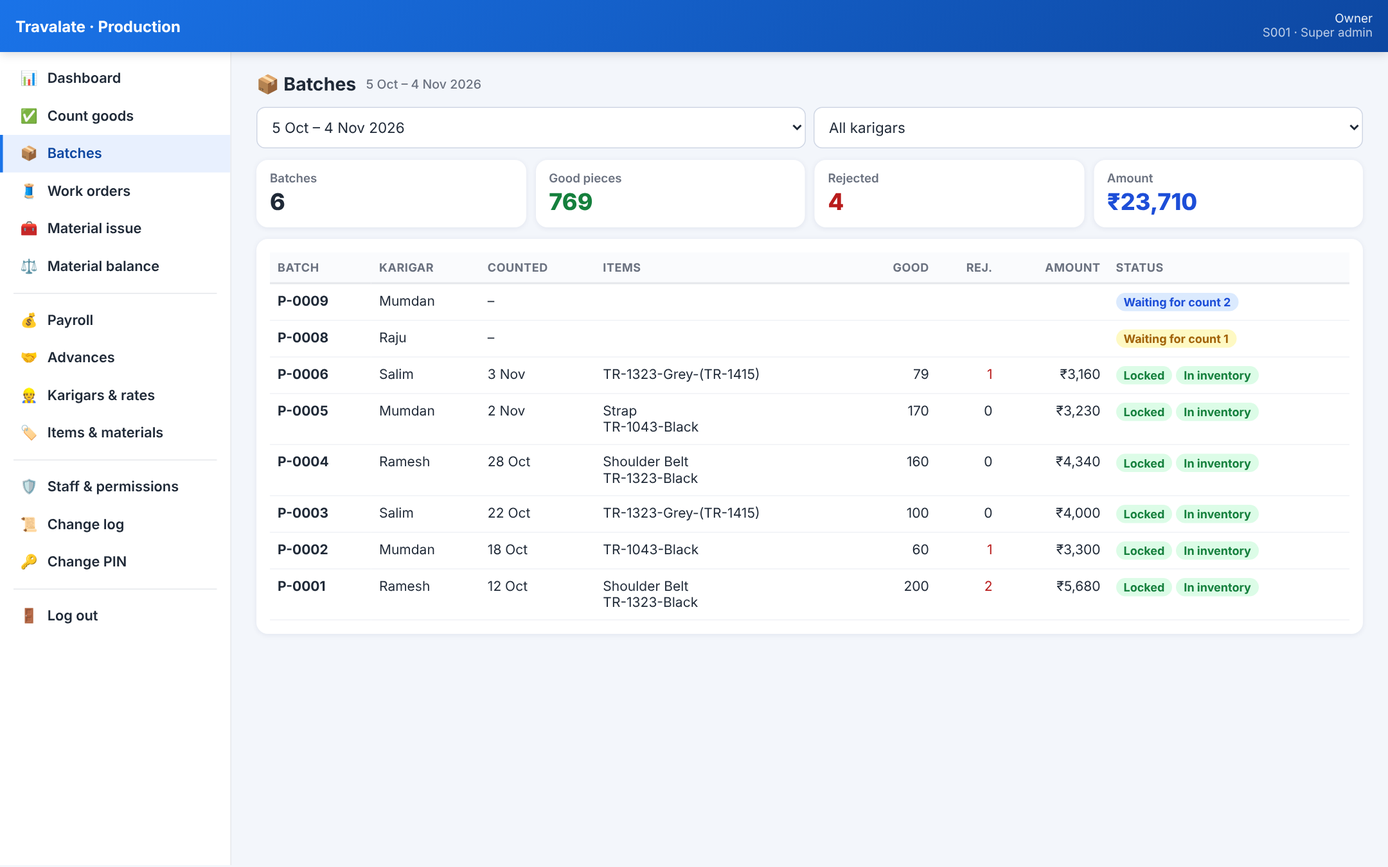
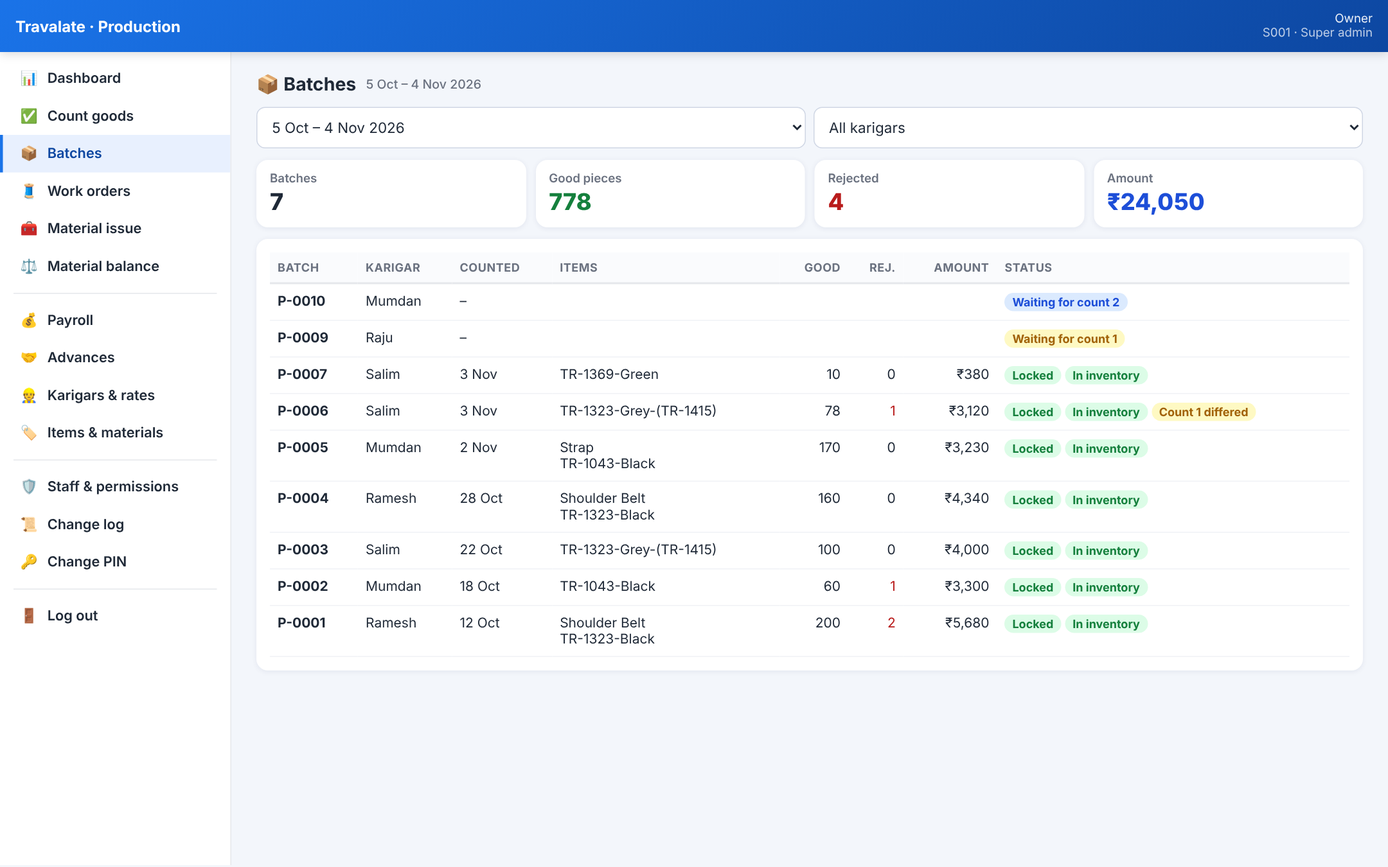
Production app: the second count is final; in-production number in the Inventory Snapshot page
- Count 2 (a different person, blind) locks the batch with its own numbers. No recount step any more;
  if count 1 was different it is flagged (batch list, batch detail, dashboard, change log), not blocked.
- README: the exact InventoryForm.html change (style + renderInventorySnapshot_) for the small grey
  in-production number in the latest date's cell, tested on the real page.
- Screenshots updated; the real Inventory Snapshot with the change replaces the mock-up.

Claude-Session: https://claude.ai/code/session_01Kh5UPgEYYGq7tCgf8f7WJ8

diff --git a/production-app/Index.html b/production-app/Index.html
@@ -160,7 +160,7 @@ function can(p) { return S.profile && S.profile.kind === 'S' && (S.profile.role 
 function isSuper() { return S.profile && S.profile.role === 'SUPER'; }
 function opts(list, sel, label, value) { return list.map(function (x) { var v = value ? value(x) : x.id; return '<option value="' + esc(v) + '"' + (v === sel ? ' selected' : '') + '>' + esc(label ? label(x) : x.name) + '</option>'; }).join(''); }
 function itemOpts(items, sel) { return '<option value="">Choose item…</option>' + items.map(function (i) { return '<option value="' + esc(i.code) + '"' + (i.code === sel ? ' selected' : '') + '>' + esc(i.code) + (i.type === 'PART' ? ' (part)' : '') + '</option>'; }).join(''); }
-var STATUS = { COUNT1: ['Waiting for count 1', 'warn'], COUNT2: ['Waiting for count 2', 'info'], MISMATCH: ['Counts differ', 'err'], LOCKED: ['Locked', 'ok'] };
+var STATUS = { COUNT1: ['Waiting for count 1', 'warn'], COUNT2: ['Waiting for count 2', 'info'], LOCKED: ['Locked', 'ok'] };
 function statusPill(s) { var x = STATUS[s] || [s, '']; return '<span class="pill ' + x[1] + '">' + esc(x[0]) + '</span>'; }
 function invPill(s) { return s === 'DONE' ? '<span class="pill ok">In inventory</span>' : s === 'PENDING' ? '<span class="pill err">Not in inventory yet</span>' : s === 'NONE' ? '<span class="pill">Parts only</span>' : ''; }
 
@@ -354,7 +354,7 @@ VIEWS.dash = function () {
       '<div class="tiles">' +
       '<div class="tile warn" onclick="go(\'count\')"><div class="l">Waiting for count 1</div><div class="n">' + r.waitCount1 + '</div></div>' +
       '<div class="tile info" onclick="go(\'count\')"><div class="l">Waiting for count 2</div><div class="n">' + r.waitCount2 + '</div></div>' +
-      '<div class="tile ' + (r.mismatch ? 'err' : '') + '" onclick="go(\'count\')"><div class="l">Counts differ</div><div class="n">' + r.mismatch + '</div></div>' +
+      '<div class="tile ' + (r.differed ? 'err' : '') + '" onclick="go(\'batches\')"><div class="l">Count 1 ≠ final (this period)</div><div class="n">' + r.differed + '</div></div>' +
       '<div class="tile ' + (r.movesPending ? 'warn' : '') + '" onclick="go(\'material\')"><div class="l">Material to confirm</div><div class="n">' + r.movesPending + '</div></div>' +
       '<div class="tile ok"><div class="l">Received today (good)</div><div class="n">' + r.receivedToday + '</div></div>' +
       '<div class="tile ' + (r.rejectedToday ? 'err' : '') + '"><div class="l">Rejected today</div><div class="n">' + r.rejectedToday + '</div></div>' +
@@ -375,7 +375,7 @@ VIEWS.dash = function () {
 VIEWS.count = function () {
   api('countQueue', S.token).then(function (r) {
     S.data.cq = r;
-    var groups = [['COUNT1', 'Waiting for count 1 (with photo)'], ['COUNT2', 'Waiting for count 2 (a different person, blind)'], ['MISMATCH', 'Counts differ: count again']];
+    var groups = [['COUNT1', 'Waiting for count 1 (with photo)'], ['COUNT2', 'Waiting for count 2: final count (a different person, blind)']];
     render('<h1 class="page">✅ Count received goods</h1>' +
       (r.canCount ? '<div class="card"><h2>New batch (no hand-over from the karigar)</h2><div class="row"><select id="nbK"><option value="">Choose karigar…</option>' + opts(r.karigars, '', function (k) { return k.name + ' (' + k.id + ')'; }) + '</select><button class="btn fix" onclick="newBatch(this)">Start count 1</button></div></div>' : '') +
       groups.map(function (g) {
@@ -384,12 +384,9 @@ VIEWS.count = function () {
           var act = '';
           if (r.canCount && b.status === 'COUNT1') act = '<button class="btn sm" onclick="countForm(\'' + b.id + '\',1)">Count 1</button>';
           if (r.canCount && b.status === 'COUNT2') act = b.mine ? '<span class="muted">You did count 1</span>' : '<button class="btn sm" onclick="countForm(\'' + b.id + '\',2)">Count 2</button>';
-          if (r.canCount && b.status === 'MISMATCH') act = '<button class="btn warn sm" onclick="recount(\'' + b.id + '\',this)">Count again</button>';
           return '<div class="it"><div class="grow"><b>' + esc(b.id) + ' · ' + esc(b.karigar) + '</b><div class="muted">' + d(b.createdAt) +
             (b.claim.length ? ' · Karigar says: ' + b.claim.map(function (c) { return esc(c.item) + ' ' + c.qty; }).join(', ') : '') +
             (b.count1By ? ' · Count 1 by ' + esc(b.count1By) : '') + '</div>' +
-            (b.mismatchItems.length ? '<div class="neg" style="font-size:13px;font-weight:600">Different on: ' + b.mismatchItems.map(esc).join(', ') + '</div>' : '') +
-            (b.mismatchDetail ? '<div class="muted">Count 1: ' + b.mismatchDetail.count1.map(function (l) { return esc(l.item) + ' ' + l.good + '/' + l.rejected; }).join(', ') + ' · Count 2: ' + b.mismatchDetail.count2.map(function (l) { return esc(l.item) + ' ' + l.good + '/' + l.rejected; }).join(', ') + '</div>' : '') +
             '</div>' + act + '</div>';
         }).join('') + '</div>' : '<div class="muted">Nothing waiting.</div>') + '</div>';
       }).join(''));
@@ -405,7 +402,7 @@ function countForm(id, which) {
   S.data.countItems = S.data.cq.items; S.data.photo = null;
   var pre = which === 1 ? b.claim.map(function (c) { return c.item; }) : b.items;
   modal('Count ' + which + ' · ' + id + ' · ' + (b.karigar || ''),
-    (which === 2 ? '<div class="blind">Blind count: you do not see count 1. Count every piece yourself.</div>' : b.claim.length ? '<div class="msg info">Karigar says: ' + b.claim.map(function (c) { return esc(c.item) + ' ' + c.qty; }).join(', ') + '</div>' : '') +
+    (which === 2 ? '<div class="blind">Final count: you do not see count 1. Count every piece yourself. Your count is the one that is paid and added to the inventory.</div>' : b.claim.length ? '<div class="msg info">Karigar says: ' + b.claim.map(function (c) { return esc(c.item) + ' ' + c.qty; }).join(', ') + '</div>' : '') +
     '<div class="lines"><div class="ln hdr"><div>Item</div><div>Good</div><div>Rejected</div><div></div></div><div id="cLines"></div></div><button class="btn sec sm" onclick="addCountLine()">+ Add item</button>' +
     (which === 1 ? '<label class="f">Photo of the received goods (required)</label><input type="file" accept="image/*" capture="environment" onchange="takePhoto(this)"><img id="cPhoto" class="photo" style="display:none">' : '') +
     '<button class="btn block ok" onclick="saveCountNow(\'' + id + '\',' + which + ',this)">Save count ' + which + '</button>');
@@ -433,15 +430,10 @@ function saveCountNow(id, which, btn) {
   busy(btn, true);
   api('saveCount', S.token, id, { lines: lines, photo: which === 1 ? S.data.photo : null }).then(function (r) {
     closeModal();
-    if (r.status === 'LOCKED') toast('Counts match: batch locked' + (r.inventory === 'DONE' ? ' and added to the inventory' : r.inventory === 'PENDING' ? '. Inventory will be retried.' : ''));
-    else if (r.status === 'MISMATCH') toast('Counts do not match: ' + r.items.join(', ') + '. Count again.');
+    if (r.status === 'LOCKED') toast('Final count saved: batch locked' + (r.inventory === 'DONE' ? ' and added to the inventory' : r.inventory === 'PENDING' ? '. Inventory will be retried.' : '') + (r.differs && r.differs.length ? '. Count 1 was different on ' + r.differs.join(', ') + ' (noted).' : ''));
     else toast('Count 1 saved. Now a different person does count 2.');
     go('count');
   }).catch(function (e) { fail(e, btn); });
-}
-function recount(id, btn) {
-  if (!confirm('Both counts are kept in the history and the batch is counted again from count 1.')) return;
-  busy(btn, true); api('recountBatch', S.token, id).then(function () { go('count'); }).catch(function (e) { fail(e, btn); });
 }
 
 /* ---------- batches ---------- */
@@ -455,7 +447,7 @@ VIEWS.batches = function (period) {
       '<div class="card scroll"><table class="tbl"><tr><th>Batch</th><th>Karigar</th><th>Counted</th><th>Items</th><th class="r">Good</th><th class="r">Rej.</th><th class="r">Amount</th><th>Status</th></tr>' +
       (r.list.map(function (b) {
         return '<tr class="click" onclick="showBatch(\'' + b.id + '\')"><td><b>' + esc(b.id) + '</b></td><td>' + esc(b.karigar) + '</td><td>' + (b.finalDate ? d(b.finalDate) : '–') + '</td><td>' + b.lines.map(function (l) { return esc(l.item); }).join('<br>') + '</td>' +
-          '<td class="r">' + (b.status === 'LOCKED' ? b.good : '') + '</td><td class="r ' + (b.rejected ? 'neg' : '') + '">' + (b.status === 'LOCKED' ? b.rejected : '') + '</td><td class="r">' + (b.status === 'LOCKED' ? money(b.amount) : '') + '</td><td>' + statusPill(b.status) + ' ' + invPill(b.inventory) + (b.missingRate ? ' <span class="pill warn">No rate</span>' : '') + '</td></tr>';
+          '<td class="r">' + (b.status === 'LOCKED' ? b.good : '') + '</td><td class="r ' + (b.rejected ? 'neg' : '') + '">' + (b.status === 'LOCKED' ? b.rejected : '') + '</td><td class="r">' + (b.status === 'LOCKED' ? money(b.amount) : '') + '</td><td>' + statusPill(b.status) + ' ' + invPill(b.inventory) + (b.differs && b.differs.length ? ' <span class="pill warn">Count 1 differed</span>' : '') + (b.missingRate ? ' <span class="pill warn">No rate</span>' : '') + '</td></tr>';
       }).join('') || '<tr><td colspan="8" class="muted">No batches.</td></tr>') + '</table></div>');
   }).catch(function (e) { render('<div class="msg err">' + esc(e.message) + '</div>'); });
 };
@@ -465,15 +457,16 @@ function showBatch(id) {
     var cnt = function (c) { return c && c.length ? c.map(function (l) { return esc(l.item) + ': <b>' + l.good + '</b>' + (l.rejected ? ' + ' + l.rejected + ' rej.' : ''); }).join('<br>') : '–'; };
     modal(b.id + ' · ' + b.karigar,
       '<div style="margin-bottom:8px">' + statusPill(b.status) + ' ' + invPill(b.inventory) + '</div>' +
+      (b.differs && b.differs.length ? '<div class="msg warn">Count 1 was different on: ' + b.differs.map(esc).join(', ') + '. The final count (count 2) is used.</div>' : '') +
       '<div class="kv"><div>Created</div><div>' + d(b.createdAt) + '</div>' + (b.claim.length ? '<div>Karigar said</div><div>' + b.claim.map(function (c) { return esc(c.item) + ' ' + c.qty; }).join(', ') + '</div>' : '') +
       '<div>Count 1</div><div>' + esc(b.count1By || '–') + ' ' + d(b.count1At) + (b.count1 ? '<br>' + cnt(b.count1) : '') + '</div>' +
-      '<div>Count 2</div><div>' + esc(b.count2By || '–') + ' ' + d(b.count2At) + (b.count2 ? '<br>' + cnt(b.count2) : '') + '</div>' +
+      '<div>Count 2 (final)</div><div>' + esc(b.count2By || '–') + ' ' + d(b.count2At) + (b.count2 ? '<br>' + cnt(b.count2) : '') + '</div>' +
       (b.finalDate ? '<div>Final date</div><div><b>' + d(b.finalDate) + '</b> · pay period ' + esc(b.period) + '</div>' : '') +
       (b.inventoryNote ? '<div>Inventory</div><div>' + esc(b.inventoryNote) + '</div>' : '') + (b.note ? '<div>Notes</div><div style="white-space:pre-wrap">' + esc(b.note) + '</div>' : '') + '</div>' +
       (b.lines.length ? '<table class="tbl" style="margin-top:12px"><tr><th>Item</th><th class="r">Good</th><th class="r">Rej.</th><th class="r">Rate</th><th class="r">Amount</th></tr>' + b.lines.map(function (l) {
         return '<tr><td>' + esc(l.item) + (l.type === 'PART' ? ' <span class="pill">part</span>' : '') + '</td><td class="r">' + l.good + '</td><td class="r">' + l.rejected + '</td><td class="r">' + (l.rate === null ? '<span class="pill warn">No rate</span>' : money(l.rate)) + '</td><td class="r">' + money(l.amount) + '</td></tr>';
       }).join('') + '<tfoot><tr><td>Total</td><td class="r">' + b.good + '</td><td class="r">' + b.rejected + '</td><td></td><td class="r">' + money(b.amount) + '</td></tr></tfoot></table>' : '') +
-      (b.earlier.length ? '<h3>Earlier counts (did not match)</h3>' + b.earlier.map(function (e) { return '<div class="muted">' + d(e.at) + ': count 1 ' + e.count1.map(function (l) { return esc(l.item) + ' ' + l.good + '/' + l.rejected; }).join(', ') + ' · count 2 ' + e.count2.map(function (l) { return esc(l.item) + ' ' + l.good + '/' + l.rejected; }).join(', ') + '</div>'; }).join('') : '') +
+      (b.earlier.length ? '<h3>Earlier counts</h3>' + b.earlier.map(function (e) { return '<div class="muted">' + d(e.at) + ': count 1 ' + e.count1.map(function (l) { return esc(l.item) + ' ' + l.good + '/' + l.rejected; }).join(', ') + ' · count 2 ' + e.count2.map(function (l) { return esc(l.item) + ' ' + l.good + '/' + l.rejected; }).join(', ') + '</div>'; }).join('') : '') +
       (b.hasPhoto ? '<div id="bPhoto" style="margin-top:10px"><button class="btn sec sm" onclick="loadPhoto(\'' + b.id + '\',this)">📷 Show photo</button></div>' : '') +
       '<div class="row" style="margin-top:12px">' + (b.inventory === 'PENDING' && S.profile.kind === 'S' ? '<button class="btn warn" onclick="retryInv(\'' + b.id + '\',this)">Send to inventory again</button>' : '') +
       (b.canCorrect ? '<button class="btn err" onclick="correctForm()">Correct (super admin)</button>' : '') + '</div>' +

diff --git a/production/index.html b/production/index.html
@@ -160,7 +160,7 @@ function can(p) { return S.profile && S.profile.kind === 'S' && (S.profile.role 
 function isSuper() { return S.profile && S.profile.role === 'SUPER'; }
 function opts(list, sel, label, value) { return list.map(function (x) { var v = value ? value(x) : x.id; return '<option value="' + esc(v) + '"' + (v === sel ? ' selected' : '') + '>' + esc(label ? label(x) : x.name) + '</option>'; }).join(''); }
 function itemOpts(items, sel) { return '<option value="">Choose item…</option>' + items.map(function (i) { return '<option value="' + esc(i.code) + '"' + (i.code === sel ? ' selected' : '') + '>' + esc(i.code) + (i.type === 'PART' ? ' (part)' : '') + '</option>'; }).join(''); }
-var STATUS = { COUNT1: ['Waiting for count 1', 'warn'], COUNT2: ['Waiting for count 2', 'info'], MISMATCH: ['Counts differ', 'err'], LOCKED: ['Locked', 'ok'] };
+var STATUS = { COUNT1: ['Waiting for count 1', 'warn'], COUNT2: ['Waiting for count 2', 'info'], LOCKED: ['Locked', 'ok'] };
 function statusPill(s) { var x = STATUS[s] || [s, '']; return '<span class="pill ' + x[1] + '">' + esc(x[0]) + '</span>'; }
 function invPill(s) { return s === 'DONE' ? '<span class="pill ok">In inventory</span>' : s === 'PENDING' ? '<span class="pill err">Not in inventory yet</span>' : s === 'NONE' ? '<span class="pill">Parts only</span>' : ''; }
 
@@ -354,7 +354,7 @@ VIEWS.dash = function () {
       '<div class="tiles">' +
       '<div class="tile warn" onclick="go(\'count\')"><div class="l">Waiting for count 1</div><div class="n">' + r.waitCount1 + '</div></div>' +
       '<div class="tile info" onclick="go(\'count\')"><div class="l">Waiting for count 2</div><div class="n">' + r.waitCount2 + '</div></div>' +
-      '<div class="tile ' + (r.mismatch ? 'err' : '') + '" onclick="go(\'count\')"><div class="l">Counts differ</div><div class="n">' + r.mismatch + '</div></div>' +
+      '<div class="tile ' + (r.differed ? 'err' : '') + '" onclick="go(\'batches\')"><div class="l">Count 1 ≠ final (this period)</div><div class="n">' + r.differed + '</div></div>' +
       '<div class="tile ' + (r.movesPending ? 'warn' : '') + '" onclick="go(\'material\')"><div class="l">Material to confirm</div><div class="n">' + r.movesPending + '</div></div>' +
       '<div class="tile ok"><div class="l">Received today (good)</div><div class="n">' + r.receivedToday + '</div></div>' +
       '<div class="tile ' + (r.rejectedToday ? 'err' : '') + '"><div class="l">Rejected today</div><div class="n">' + r.rejectedToday + '</div></div>' +
@@ -375,7 +375,7 @@ VIEWS.dash = function () {
 VIEWS.count = function () {
   api('countQueue', S.token).then(function (r) {
     S.data.cq = r;
-    var groups = [['COUNT1', 'Waiting for count 1 (with photo)'], ['COUNT2', 'Waiting for count 2 (a different person, blind)'], ['MISMATCH', 'Counts differ: count again']];
+    var groups = [['COUNT1', 'Waiting for count 1 (with photo)'], ['COUNT2', 'Waiting for count 2: final count (a different person, blind)']];
     render('<h1 class="page">✅ Count received goods</h1>' +
       (r.canCount ? '<div class="card"><h2>New batch (no hand-over from the karigar)</h2><div class="row"><select id="nbK"><option value="">Choose karigar…</option>' + opts(r.karigars, '', function (k) { return k.name + ' (' + k.id + ')'; }) + '</select><button class="btn fix" onclick="newBatch(this)">Start count 1</button></div></div>' : '') +
       groups.map(function (g) {
@@ -384,12 +384,9 @@ VIEWS.count = function () {
           var act = '';
           if (r.canCount && b.status === 'COUNT1') act = '<button class="btn sm" onclick="countForm(\'' + b.id + '\',1)">Count 1</button>';
           if (r.canCount && b.status === 'COUNT2') act = b.mine ? '<span class="muted">You did count 1</span>' : '<button class="btn sm" onclick="countForm(\'' + b.id + '\',2)">Count 2</button>';
-          if (r.canCount && b.status === 'MISMATCH') act = '<button class="btn warn sm" onclick="recount(\'' + b.id + '\',this)">Count again</button>';
           return '<div class="it"><div class="grow"><b>' + esc(b.id) + ' · ' + esc(b.karigar) + '</b><div class="muted">' + d(b.createdAt) +
             (b.claim.length ? ' · Karigar says: ' + b.claim.map(function (c) { return esc(c.item) + ' ' + c.qty; }).join(', ') : '') +
             (b.count1By ? ' · Count 1 by ' + esc(b.count1By) : '') + '</div>' +
-            (b.mismatchItems.length ? '<div class="neg" style="font-size:13px;font-weight:600">Different on: ' + b.mismatchItems.map(esc).join(', ') + '</div>' : '') +
-            (b.mismatchDetail ? '<div class="muted">Count 1: ' + b.mismatchDetail.count1.map(function (l) { return esc(l.item) + ' ' + l.good + '/' + l.rejected; }).join(', ') + ' · Count 2: ' + b.mismatchDetail.count2.map(function (l) { return esc(l.item) + ' ' + l.good + '/' + l.rejected; }).join(', ') + '</div>' : '') +
             '</div>' + act + '</div>';
         }).join('') + '</div>' : '<div class="muted">Nothing waiting.</div>') + '</div>';
       }).join(''));
@@ -405,7 +402,7 @@ function countForm(id, which) {
   S.data.countItems = S.data.cq.items; S.data.photo = null;
   var pre = which === 1 ? b.claim.map(function (c) { return c.item; }) : b.items;
   modal('Count ' + which + ' · ' + id + ' · ' + (b.karigar || ''),
-    (which === 2 ? '<div class="blind">Blind count: you do not see count 1. Count every piece yourself.</div>' : b.claim.length ? '<div class="msg info">Karigar says: ' + b.claim.map(function (c) { return esc(c.item) + ' ' + c.qty; }).join(', ') + '</div>' : '') +
+    (which === 2 ? '<div class="blind">Final count: you do not see count 1. Count every piece yourself. Your count is the one that is paid and added to the inventory.</div>' : b.claim.length ? '<div class="msg info">Karigar says: ' + b.claim.map(function (c) { return esc(c.item) + ' ' + c.qty; }).join(', ') + '</div>' : '') +
     '<div class="lines"><div class="ln hdr"><div>Item</div><div>Good</div><div>Rejected</div><div></div></div><div id="cLines"></div></div><button class="btn sec sm" onclick="addCountLine()">+ Add item</button>' +
     (which === 1 ? '<label class="f">Photo of the received goods (required)</label><input type="file" accept="image/*" capture="environment" onchange="takePhoto(this)"><img id="cPhoto" class="photo" style="display:none">' : '') +
     '<button class="btn block ok" onclick="saveCountNow(\'' + id + '\',' + which + ',this)">Save count ' + which + '</button>');
@@ -433,15 +430,10 @@ function saveCountNow(id, which, btn) {
   busy(btn, true);
   api('saveCount', S.token, id, { lines: lines, photo: which === 1 ? S.data.photo : null }).then(function (r) {
     closeModal();
-    if (r.status === 'LOCKED') toast('Counts match: batch locked' + (r.inventory === 'DONE' ? ' and added to the inventory' : r.inventory === 'PENDING' ? '. Inventory will be retried.' : ''));
-    else if (r.status === 'MISMATCH') toast('Counts do not match: ' + r.items.join(', ') + '. Count again.');
+    if (r.status === 'LOCKED') toast('Final count saved: batch locked' + (r.inventory === 'DONE' ? ' and added to the inventory' : r.inventory === 'PENDING' ? '. Inventory will be retried.' : '') + (r.differs && r.differs.length ? '. Count 1 was different on ' + r.differs.join(', ') + ' (noted).' : ''));
     else toast('Count 1 saved. Now a different person does count 2.');
     go('count');
   }).catch(function (e) { fail(e, btn); });
-}
-function recount(id, btn) {
-  if (!confirm('Both counts are kept in the history and the batch is counted again from count 1.')) return;
-  busy(btn, true); api('recountBatch', S.token, id).then(function () { go('count'); }).catch(function (e) { fail(e, btn); });
 }
 
 /* ---------- batches ---------- */
@@ -455,7 +447,7 @@ VIEWS.batches = function (period) {
       '<div class="card scroll"><table class="tbl"><tr><th>Batch</th><th>Karigar</th><th>Counted</th><th>Items</th><th class="r">Good</th><th class="r">Rej.</th><th class="r">Amount</th><th>Status</th></tr>' +
       (r.list.map(function (b) {
         return '<tr class="click" onclick="showBatch(\'' + b.id + '\')"><td><b>' + esc(b.id) + '</b></td><td>' + esc(b.karigar) + '</td><td>' + (b.finalDate ? d(b.finalDate) : '–') + '</td><td>' + b.lines.map(function (l) { return esc(l.item); }).join('<br>') + '</td>' +
-          '<td class="r">' + (b.status === 'LOCKED' ? b.good : '') + '</td><td class="r ' + (b.rejected ? 'neg' : '') + '">' + (b.status === 'LOCKED' ? b.rejected : '') + '</td><td class="r">' + (b.status === 'LOCKED' ? money(b.amount) : '') + '</td><td>' + statusPill(b.status) + ' ' + invPill(b.inventory) + (b.missingRate ? ' <span class="pill warn">No rate</span>' : '') + '</td></tr>';
+          '<td class="r">' + (b.status === 'LOCKED' ? b.good : '') + '</td><td class="r ' + (b.rejected ? 'neg' : '') + '">' + (b.status === 'LOCKED' ? b.rejected : '') + '</td><td class="r">' + (b.status === 'LOCKED' ? money(b.amount) : '') + '</td><td>' + statusPill(b.status) + ' ' + invPill(b.inventory) + (b.differs && b.differs.length ? ' <span class="pill warn">Count 1 differed</span>' : '') + (b.missingRate ? ' <span class="pill warn">No rate</span>' : '') + '</td></tr>';
       }).join('') || '<tr><td colspan="8" class="muted">No batches.</td></tr>') + '</table></div>');
   }).catch(function (e) { render('<div class="msg err">' + esc(e.message) + '</div>'); });
 };
@@ -465,15 +457,16 @@ function showBatch(id) {
     var cnt = function (c) { return c && c.length ? c.map(function (l) { return esc(l.item) + ': <b>' + l.good + '</b>' + (l.rejected ? ' + ' + l.rejected + ' rej.' : ''); }).join('<br>') : '–'; };
     modal(b.id + ' · ' + b.karigar,
       '<div style="margin-bottom:8px">' + statusPill(b.status) + ' ' + invPill(b.inventory) + '</div>' +
+      (b.differs && b.differs.length ? '<div class="msg warn">Count 1 was different on: ' + b.differs.map(esc).join(', ') + '. The final count (count 2) is used.</div>' : '') +
       '<div class="kv"><div>Created</div><div>' + d(b.createdAt) + '</div>' + (b.claim.length ? '<div>Karigar said</div><div>' + b.claim.map(function (c) { return esc(c.item) + ' ' + c.qty; }).join(', ') + '</div>' : '') +
       '<div>Count 1</div><div>' + esc(b.count1By || '–') + ' ' + d(b.count1At) + (b.count1 ? '<br>' + cnt(b.count1) : '') + '</div>' +
-      '<div>Count 2</div><div>' + esc(b.count2By || '–') + ' ' + d(b.count2At) + (b.count2 ? '<br>' + cnt(b.count2) : '') + '</div>' +
+      '<div>Count 2 (final)</div><div>' + esc(b.count2By || '–') + ' ' + d(b.count2At) + (b.count2 ? '<br>' + cnt(b.count2) : '') + '</div>' +
       (b.finalDate ? '<div>Final date</div><div><b>' + d(b.finalDate) + '</b> · pay period ' + esc(b.period) + '</div>' : '') +
       (b.inventoryNote ? '<div>Inventory</div><div>' + esc(b.inventoryNote) + '</div>' : '') + (b.note ? '<div>Notes</div><div style="white-space:pre-wrap">' + esc(b.note) + '</div>' : '') + '</div>' +
       (b.lines.length ? '<table class="tbl" style="margin-top:12px"><tr><th>Item</th><th class="r">Good</th><th class="r">Rej.</th><th class="r">Rate</th><th class="r">Amount</th></tr>' + b.lines.map(function (l) {
         return '<tr><td>' + esc(l.item) + (l.type === 'PART' ? ' <span class="pill">part</span>' : '') + '</td><td class="r">' + l.good + '</td><td class="r">' + l.rejected + '</td><td class="r">' + (l.rate === null ? '<span class="pill warn">No rate</span>' : money(l.rate)) + '</td><td class="r">' + money(l.amount) + '</td></tr>';
       }).join('') + '<tfoot><tr><td>Total</td><td class="r">' + b.good + '</td><td class="r">' + b.rejected + '</td><td></td><td class="r">' + money(b.amount) + '</td></tr></tfoot></table>' : '') +
-      (b.earlier.length ? '<h3>Earlier counts (did not match)</h3>' + b.earlier.map(function (e) { return '<div class="muted">' + d(e.at) + ': count 1 ' + e.count1.map(function (l) { return esc(l.item) + ' ' + l.good + '/' + l.rejected; }).join(', ') + ' · count 2 ' + e.count2.map(function (l) { return esc(l.item) + ' ' + l.good + '/' + l.rejected; }).join(', ') + '</div>'; }).join('') : '') +
+      (b.earlier.length ? '<h3>Earlier counts</h3>' + b.earlier.map(function (e) { return '<div class="muted">' + d(e.at) + ': count 1 ' + e.count1.map(function (l) { return esc(l.item) + ' ' + l.good + '/' + l.rejected; }).join(', ') + ' · count 2 ' + e.count2.map(function (l) { return esc(l.item) + ' ' + l.good + '/' + l.rejected; }).join(', ') + '</div>'; }).join('') : '') +
       (b.hasPhoto ? '<div id="bPhoto" style="margin-top:10px"><button class="btn sec sm" onclick="loadPhoto(\'' + b.id + '\',this)">📷 Show photo</button></div>' : '') +
       '<div class="row" style="margin-top:12px">' + (b.inventory === 'PENDING' && S.profile.kind === 'S' ? '<button class="btn warn" onclick="retryInv(\'' + b.id + '\',this)">Send to inventory again</button>' : '') +
       (b.canCorrect ? '<button class="btn err" onclick="correctForm()">Correct (super admin)</button>' : '') + '</div>' +

diff --git a/production-app/README.md b/production-app/README.md
@@ -6,8 +6,8 @@ Karigars make bags and parts for you. This app keeps track of everything from ra
   "in production" and shows small and grey in the Inventory Snapshot.
 - **Raw material, 2 people:** one person enters an issue or return, a **different** person confirms it.
 - **Final count, 2 people:** count 1 with a **photo** of the goods, then count 2 by a **different** person who
-  does **not** see count 1 (blind). If the counts match, the batch is **locked**. If not, they count again; the
-  first counts are kept.
+  does **not** see count 1 (blind). **Count 2 is final:** the batch is locked with count 2's numbers. If count 1
+  was different, that is kept and flagged ("Count 1 differed") but does not block anything.
 - **Inventory:** on lock, the good pieces of inventory SKUs are added to the **Travalate Inventory App**. The
   note there reads `05-Nov 14:20 | Harshit | +40 (In) | Received From Ramesh (P-0012)`.
 - **Parts** (straps, belts …) are paid but not added to the inventory.
@@ -78,7 +78,7 @@ the attendance app (its own package `com.travalate.production`) and updates itse
 
 ## 2. Inventory App changes (Travalate Inventory Code.gs)
 
-Three small changes. Nothing else in the Inventory App changes.
+Four small changes. Nothing else in the Inventory App changes.
 
 **a) Paste** the whole of [`inventory-app-addon.gs`](inventory-app-addon.gs) at the end of the Inventory
 App's `Code.gs`.
@@ -99,17 +99,31 @@ App's `Code.gs`.
     return { success: true, monthLabel, dates, rows, inProduction: getInProductionMap_() };
 ```
 
-**d) Snapshot page (InventoryForm.html):** show the number small and grey in the bottom-left corner of
-today's (latest) cell. The exact place depends on how the page builds each cell. This is the rule:
-```css
-.inprod{position:absolute;left:4px;bottom:2px;font-size:60%;line-height:1;color:#6b7280;font-weight:700;pointer-events:none}
-/* the value cell needs  position:relative  */
-```
-```js
-// where the cell of the latest date column is built (data = the getInventorySnapshot() result):
-const ip = (data.inProduction || {})[row.sku.toUpperCase()];
-if (isLatestDateColumn && ip) cellHtml = '<span class="inprod" title="In production with karigars">' + ip + '</span>' + cellHtml;
-```
+**d) Snapshot page (`InventoryForm.html`):** shows the number small and grey in the bottom-left corner of the
+latest date's cell (the hover text also says "In production with karigars: N").
+
+1. In the `<style>`, right after the line `.snapshot-table tbody tr:nth-child(even) td.has-in { background: #b3ddc0; }`, add:
+   ```css
+   .snapshot-table td.has-prod { position: relative; padding-left: 24px; }
+   .snapshot-table td .in-prod {
+     position: absolute; left: 4px; bottom: 2px; line-height: 1;
+     font-size: 0.62em; font-weight: 700; color: #6b7280; pointer-events: none;
+   }
+   ```
+2. In `renderInventorySnapshot_`, right after `const dates = colOrder.map(i => result.dates[i]);`, add:
+   ```js
+   const inProduction = result.inProduction || {};
+   const latestIdx = result.dates.length - 1;
+   ```
+3. In the same function, replace the two lines `const titleAttr = …` and `return \`<td class=…\`;` with:
+   ```js
+   const prodQty = origIdx === latestIdx ? Number(inProduction[String(row.sku).trim().toUpperCase()]) || 0 : 0;
+   if (prodQty) classes.push("has-prod");
+   const tip = (hasNote ? note : "") + (prodQty ? (hasNote ? "\n" : "") + "In production with karigars: " + prodQty : "");
+   const titleAttr = tip ? ` title="${escapeHtml_(tip)}"` : "";
+   const prodHtml = prodQty ? `<span class="in-prod">${prodQty}</span>` : "";
+   return `<td class="${classes.join(" ")}" tabindex="-1" data-sku="${escapeHtml_(row.sku)}" data-date="${escapeHtml_(dates[i])}"${titleAttr}>${prodHtml}${v === "" || v === null || v === undefined ? "" : v}</td>`;
+   ```
 
 Then **Deploy → Manage deployments → Edit → New version** in the Inventory App (same link).
 
@@ -136,7 +150,7 @@ How it works:
 | Materials / BOM | Raw materials and the material per piece of each item |
 | Work Orders | What each karigar is making |
 | Material Moves | Issues and returns with who entered and who confirmed |
-| Batches | Hand-over claim, count 1 (+photo), count 2, status, final date, inventory status, earlier counts |
+| Batches | Hand-over claim, count 1 (+photo), count 2 (final), status, final date, inventory status |
 | Batch Lines | Locked counts per item and work order (what pay and the material balance use) |
 | Advances / Advance Periods | Advances and the full / partial / skipped cut per pay period |
 | Payroll | Approved and paid periods with the frozen figures |

diff --git a/production-app/PLAN.md b/production-app/PLAN.md
@@ -4,6 +4,7 @@
 Decided since this plan: pay period 5th to 4th; `productionIn` added to the Inventory App
 ([inventory-app-addon.gs](inventory-app-addon.gs)); work orders added, so "in production" can be shown in the
 Inventory Snapshot; theft checks agreed: photo per batch, locked entries + change log, pay only on counted quantity.
+The second count is final (no recount when count 1 differs; the difference is flagged).
 
 A Google Apps Script web app with its **own Google Sheet** (separate from the attendance app).
 It has a phone view, a desktop view, a GitHub Pages copy and an Android APK, all set up the same
@@ -28,7 +29,7 @@ way as the attendance app.
 | Rates | Per karigar per SKU/part, with an effective-from date. A batch is paid at the rate in force on its final count date. |
 | Raw material | Given out to karigars and tracked. |
 | Material issue | **2 people**: one enters it, a second confirms it. |
-| Final count | **2 people** count separately (the second cannot see the first count). The counts must match. |
+| Final count | **2 people** count separately (the second cannot see the first count). The **second count is final**; a different count 1 is flagged. |
 | Payment | **1 approver** per karigar per pay period. |
 | Rejected pieces | **Not paid.** |
 | Wasted material | **Not deducted** from pay, and **no wastage % allowed**: any material shortfall is **flagged** for review. |
@@ -73,8 +74,8 @@ ready to paste, and nothing else in the Inventory App changes.
 3. **Material return:** same 2-person flow (unused material coming back).
 4. **(Optional) Karigar hands over:** the karigar enters the items and quantities on their phone.
 5. **Final count:** counter 1 enters good and rejected quantities per item and takes the photo →
-   counter 2 counts blind → if both match, the batch is **locked**, inventory SKUs are pushed to the
-   Inventory App, and pay is credited at the karigar's rate. If they don't match, both recount.
+   counter 2 counts blind → count 2 is final: the batch is **locked**, inventory SKUs are pushed to the
+   Inventory App, and pay is credited at the karigar's rate. A different count 1 is flagged, not blocked.
 6. **Material check:** material used = (good + rejected pieces) × bill of materials. The karigar's
    balance = issued − returned − used. A negative balance means more output than material (wrong
    bill of materials or entry); a positive balance that isn't returned is flagged at period end.
